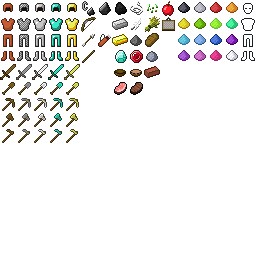
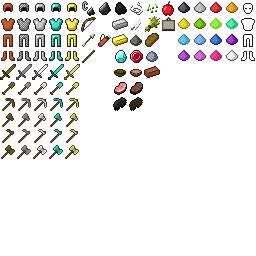
monster meat and chewing sounds

Changed region(s): [[0.0, 0.5625, 0.3125, 0.625], [0.4375, 0.375, 0.5625, 0.4375]]

diff --git a/src/game/java/net/minecraft/game/item/Item.java b/src/game/java/net/minecraft/game/item/Item.java
@@ -93,6 +93,8 @@ public class Item {
 	public static Item clay;
 	public static Item brick;
 	public static Item apple;
+	public static Item monstermeat;
+	public static Item monstermeatCooked;
 	public final int shiftedIndex;
 	protected int maxStackSize = 64;
 	protected int maxDamage = 32;
@@ -582,5 +584,15 @@ public class Item {
 		var5 = var18;
 		var5.iconIndex = var1;
 		apple = var5;
+		var18 = new ItemFood(86, 6, "Monster Meat");
+		var1 = 103;
+		var5 = var18;
+		var5.iconIndex = var1;
+		monstermeat = var5;
+		var18 = new ItemFood(87, 9, "Cooked Monster Meat");
+		var1 = 104;
+		var5 = var18;
+		var5.iconIndex = var1;
+		monstermeatCooked = var5;
 	}
 }

diff --git a/src/game/java/net/minecraft/game/item/ItemFood.java b/src/game/java/net/minecraft/game/item/ItemFood.java
@@ -15,6 +15,7 @@ public class ItemFood extends Item {
 	public ItemStack onItemRightClick(ItemStack var1, World var2, EntityPlayer var3) {
 		--var1.stackSize;
 		var3.heal(this.healAmount);
+		var2.playSoundAtEntity(var3, "random.eat", 1.0F, 1.0F);
 		return var1;
 	}
 }

diff --git a/src/game/java/net/minecraft/game/entity/monster/EntitySkinwalker.java b/src/game/java/net/minecraft/game/entity/monster/EntitySkinwalker.java
@@ -24,6 +24,6 @@ public class EntitySkinwalker extends EntityMob {
 	}
 
 	protected final int scoreValue() {
-		return Item.dyeRed.shiftedIndex;
+		return Item.monstermeat.shiftedIndex;
 	}
 }
